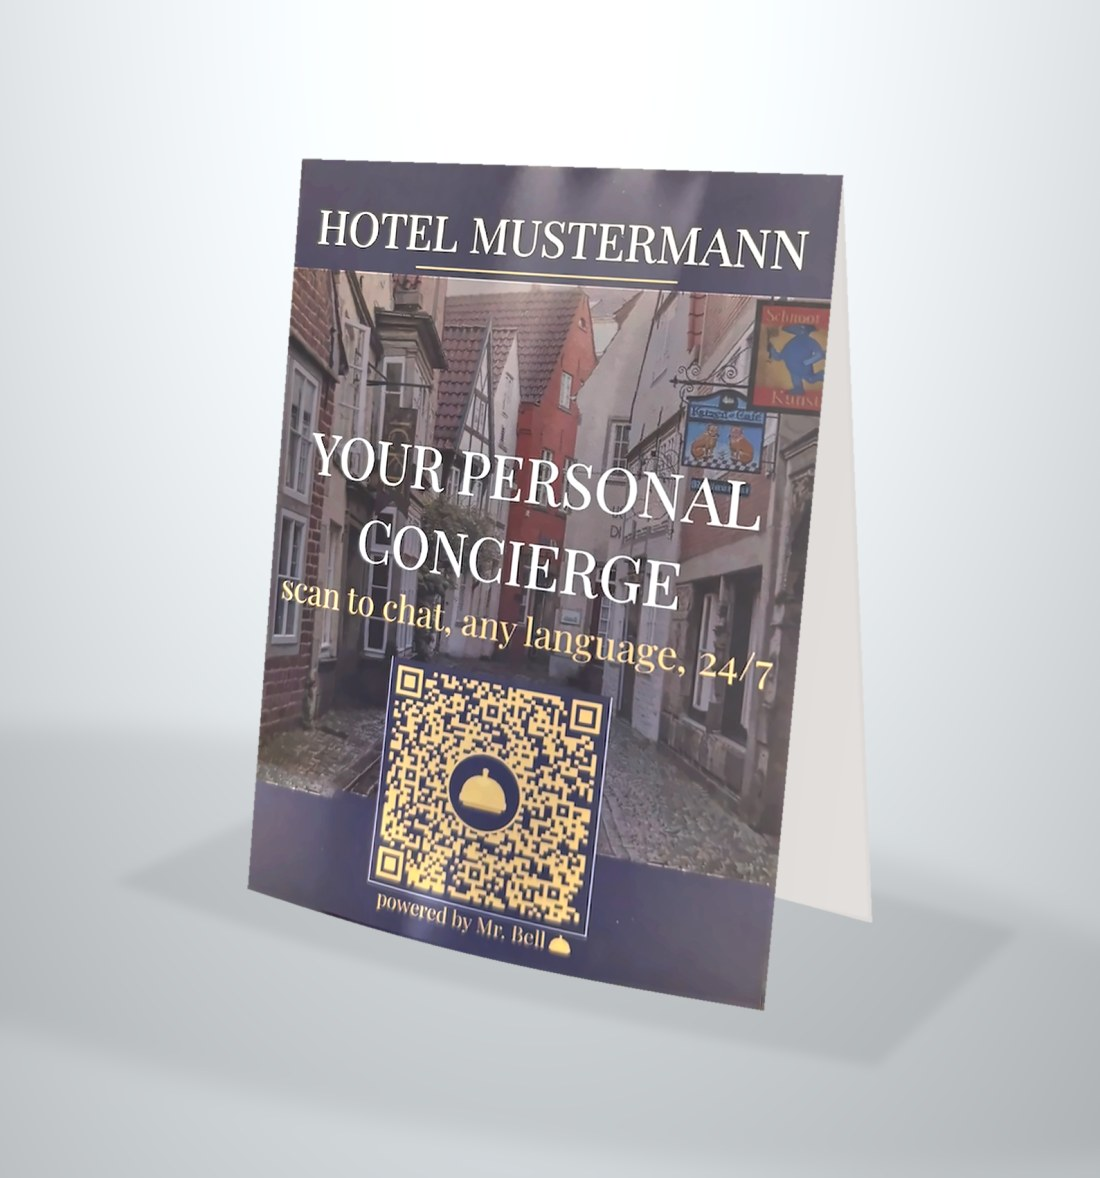
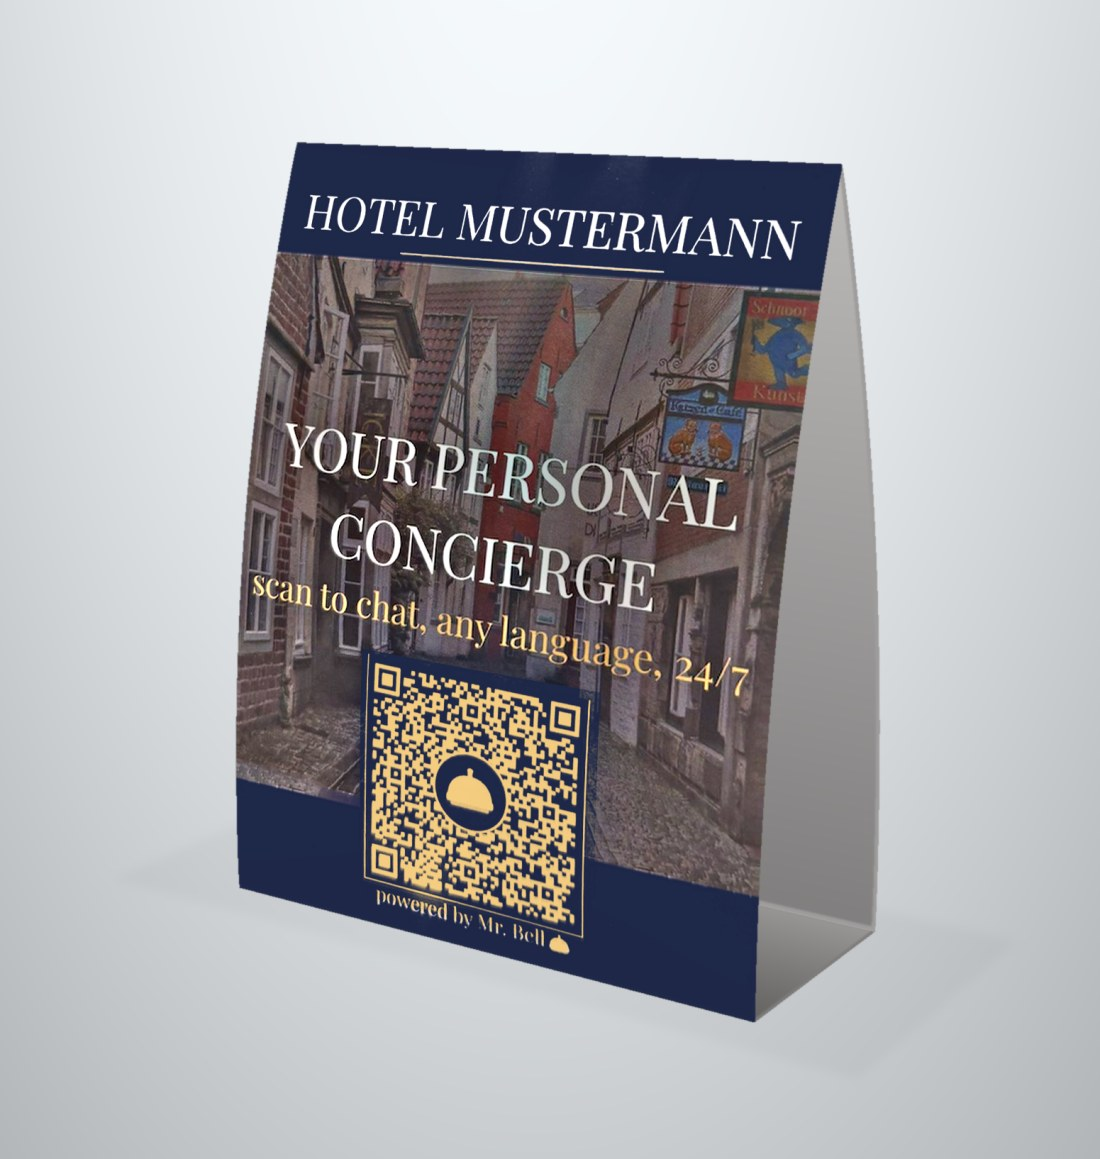
Aufsteller: echte Konstruktion (Boden, Woelbung) und sauberer Druck
- Geometrie: geschlossenes Dreieck mit Bodenplatte, beide Flaechen nach
  aussen gewoelbt - so wie der gedruckte Aufsteller tatsaechlich steht.
  Innenseite bleibt weisser Karton wie im Original.
- Druckbild: Beleuchtung des Fotos komplett rausgerechnet. Kopf- und
  Fussband sowie QR-Feld sind auf die reinen Druckfarben gesetzt
  (#1E2747 / #EFC87E / weiss), keine Lichtflecken, keine Reflexe.
- Keine Schlagschatten mehr, gleichmaessige Farbe auf allen Ansichten.
- QR in allen drei Bildern auf Scanbarkeit geprueft.

Claude-Session: https://claude.ai/code/session_01Dwkb6LCGZH2Q56yqw1FfwQ

diff --git a/partner/index.html b/partner/index.html
@@ -39,7 +39,7 @@
   /* Aufsteller-Fotos */
   /* Spaltenbreiten = Seitenverhaeltnisse der drei Bilder -> alle drei gleich hoch */
   .shots{margin:30px 0 0;padding:0;display:grid;gap:14px;
-         grid-template-columns:.80fr .93fr 1.08fr;align-items:start}
+         grid-template-columns:.82fr .95fr 1.05fr;align-items:start}
   .shots img{width:100%;height:auto;display:block;border-radius:3px;
              background:#f2f1ec;box-shadow:0 1px 2px rgba(20,27,51,.06),0 10px 26px -16px rgba(20,27,51,.30)}
   .shots figcaption{grid-column:1/-1;margin-top:4px;font-size:13px;color:var(--muted)}
@@ -161,11 +161,11 @@
         Ihr Gast muss nichts installieren: Kamera drauf, WhatsApp öffnet sich.</p>
       </div>
       <figure class="shots">
-        <img src="/aufsteller-studio.jpg" width="1100" height="1375" loading="lazy" decoding="async"
+        <img src="/aufsteller-studio.jpg" width="1100" height="1343" loading="lazy" decoding="async"
              alt="Aufsteller von vorne: Hotelname oben, Stadtmotiv, QR-Code, Hinweis &bdquo;scan to chat, any language, 24/7&ldquo;">
-        <img src="/aufsteller-seite.jpg" width="1100" height="1178" loading="lazy" decoding="async"
+        <img src="/aufsteller-seite.jpg" width="1100" height="1159" loading="lazy" decoding="async"
              alt="Aufsteller schr&auml;g von der Seite: Zeltform, steht ohne St&auml;nder von selbst">
-        <img src="/aufsteller-masse.jpg" width="1100" height="1015" loading="lazy" decoding="async"
+        <img src="/aufsteller-masse.jpg" width="1100" height="1044" loading="lazy" decoding="async"
              alt="Aufsteller mit Ma&szlig;angaben: 15 cm hoch, 12 cm breit, 5 cm tief">
         <figcaption>Der gedruckte Aufsteller &mdash; hier mit dem Beispielnamen
         &bdquo;Hotel Mustermann&ldquo;.</figcaption>
